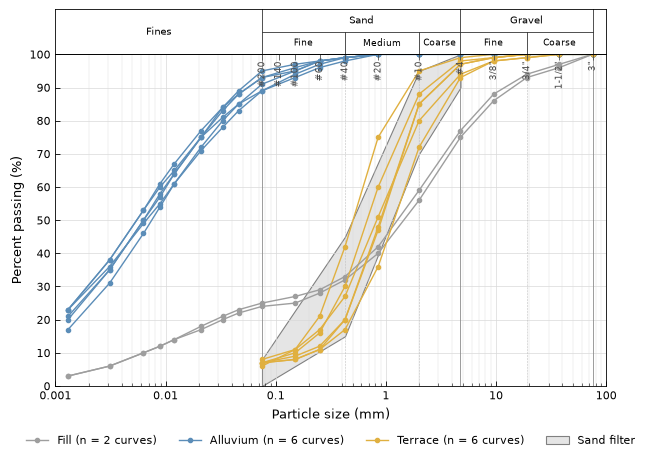
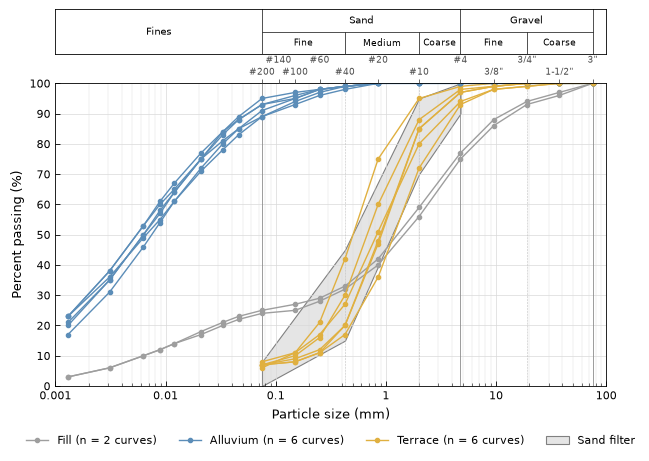
P05: put the sieve labels above the frame, horizontal
Rotated inside the top edge, they were crossed by every curve near 100 %
passing, which the clay curves made unreadable at #200 to #100. They now
sit in a strip between the frame and the band, horizontal, alternating
between two rows where neighbors are closer than 0.25 decade (P05 §5,
§8, §14 #4). The strip and the band share one axes divider, so they
stack.

diff --git a/src/hangtu/plot/_fraction_band.py b/src/hangtu/plot/_fraction_band.py
@@ -1,16 +1,19 @@
-"""The grain size plot's fraction band, dividers and sieve labels (P05 §8).
+"""The grain size plot's fraction band, dividers and sieve strip (P05 §8).
 
 The band and the dividers read the same fraction system as
 ``ht.analysis.gradation(fractions=)``, so they can't disagree with it.
 """
 
 import math
+from itertools import pairwise
 from numbers import Real
 from typing import Any
 
 from matplotlib.axes import Axes
-from matplotlib.markers import TICKDOWN
+from matplotlib.markers import TICKUP
+from matplotlib.transforms import blended_transform_factory
 from mpl_toolkits.axes_grid1 import make_axes_locatable
+from mpl_toolkits.axes_grid1.axes_divider import AxesDivider
 
 from hangtu import _config
 from hangtu.errors import HangtuError
@@ -25,17 +28,26 @@ BAND_WIDTH = 0.6
 FRACTION_DIVIDER = {"color": "0.55", "linewidth": 0.6}
 PART_DIVIDER = {"color": "0.75", "linewidth": 0.4, "linestyle": "--"}
 SIEVE_SIZE = 6.5
-SIEVE_TICK = 4.0  # points
+SIEVE_TICK = 3.0  # points, up from the frame
+SIEVE_PAD = 0.05  # inches between the frame and the first row of labels
+SIEVE_ROW = 0.12  # inches per row of labels
+CROWDED_DECADES = 0.25  # neighbors closer than this put the labels on two rows
 SIEVE_COLOR = "0.3"
 
 Fraction = dict[str, Any]
 
 
+def _divider(ax: Axes) -> AxesDivider:
+    """Return ``ax``'s divider, made once, so the strip and the band stack."""
+    divider = getattr(ax, "_grain_size_divider", None)
+    if divider is None:
+        divider = ax._grain_size_divider = make_axes_locatable(ax)
+    return divider
+
+
 def add_header(ax: Axes) -> Axes:
     """Carve the band's axes from the top of ``ax``, sharing its x axis."""
-    header = make_axes_locatable(ax).append_axes(
-        "top", size=HEADER_HEIGHT, pad=0, sharex=ax
-    )
+    header = _divider(ax).append_axes("top", size=HEADER_HEIGHT, pad=0, sharex=ax)
     header.set_ylim(0, 1)
     header.set_yticks([])
     header.grid(False, which="both")
@@ -193,18 +205,46 @@ def sieve_list(sieves: Any, display_units: str) -> list[tuple[float, str]]:
     return result
 
 
-def draw_sieves(
+def sieve_rows(sizes: list[float]) -> list[int]:
+    """Return each sieve's label row: 0, or alternating 0 and 1 when crowded.
+
+    Labels alternate between two rows, in size order, when any two neighbors
+    are closer than ``CROWDED_DECADES``, so horizontal labels don't overlap.
+    """
+    order = sorted(range(len(sizes)), key=sizes.__getitem__)
+    gaps = [math.log10(sizes[b] / sizes[a]) for a, b in pairwise(order)]
+    rows = [0] * len(sizes)
+    if any(gap < CROWDED_DECADES for gap in gaps):
+        for position, i in enumerate(order):
+            rows[i] = position % 2
+    return rows
+
+
+def add_sieve_strip(
     ax: Axes, sieves: list[tuple[float, str]], limits: tuple[float, float]
-) -> None:
-    """Write each sieve's label just inside the top of ``ax``, under a short tick."""
+) -> Axes | None:
+    """Label the sieves in a strip carved from the top of ``ax`` (P05 §8).
+
+    Each sieve gets a short tick up from the frame and a horizontal label
+    above it. Returns the strip, or None when no sieve is inside ``limits``.
+    Call before ``add_header``, so the strip sits between the frame and the
+    band.
+    """
     lo, hi = min(limits), max(limits)
-    for size, label in sieves:
-        if not lo < size < hi:
-            continue
+    inside = [(size, label) for size, label in sieves if lo < size < hi]
+    if not inside:
+        return None
+    rows = sieve_rows([size for size, _ in inside])
+    height = SIEVE_PAD + (max(rows) + 1) * SIEVE_ROW
+    strip = _divider(ax).append_axes("top", size=height, pad=0, sharex=ax)
+    strip.set_axis_off()
+    strip.set_ylim(0, 1)
+    on_strip = blended_transform_factory(strip.transData, strip.transAxes)
+    for (size, label), row in zip(inside, rows, strict=True):
         ax.plot(
             [size],
             [1.0],
-            marker=TICKDOWN,
+            marker=TICKUP,
             markersize=SIEVE_TICK,
             markeredgewidth=0.6,
             color=SIEVE_COLOR,
@@ -213,17 +253,15 @@ def draw_sieves(
             gid="sieve_tick",
             zorder=_layers.ANNOTATIONS,
         )
-        ax.annotate(
+        strip.text(
+            size,
+            (SIEVE_PAD + (row + 0.5) * SIEVE_ROW) / height,
             label,
-            xy=(size, 1.0),
-            xycoords=("data", "axes fraction"),
-            xytext=(0, -SIEVE_TICK - 1),
-            textcoords="offset points",
-            rotation=90,
+            transform=on_strip,
             ha="center",
-            va="top",
+            va="center",
             fontsize=SIEVE_SIZE,
             color=SIEVE_COLOR,
             gid="sieve_label",
-            zorder=_layers.ANNOTATIONS,
         )
+    return strip

diff --git a/tests/plot/test_grain_size_band.py b/tests/plot/test_grain_size_band.py
@@ -7,6 +7,7 @@ import pytest
 
 import hangtu as ht
 from hangtu.errors import HangtuError
+from hangtu.plot._fraction_band import sieve_rows
 
 EMPTY = pd.DataFrame()
 
@@ -20,7 +21,10 @@ def texts(ax, gid):
 
 
 def sieve_labels(ax):
-    return {t.get_text(): t.xy[0] for t in ax.texts if t.get_gid() == "sieve_label"}
+    if ax.grain_size_sieves is None:
+        return {}
+    texts = ax.grain_size_sieves.texts
+    return {t.get_text(): t.get_position()[0] for t in texts}
 
 
 # --- Band (§12) --------------------------------------------------------------
@@ -100,7 +104,7 @@ def test_unknown_system_is_the_analysis_error():
 def test_fractions_none_hides_band_and_dividers():
     fig, ax = ht.plot.grain_size(EMPTY, fractions=None)
     assert ax.grain_size_header is None
-    assert len(fig.axes) == 1
+    assert fig.axes == [ax, ax.grain_size_sieves]  # the sieves stay
     assert dividers(ax, "fraction_divider") == []
     assert dividers(ax, "part_divider") == []
 
@@ -121,7 +125,10 @@ def test_header_is_045_in_and_shares_x():
     box = header.get_window_extent()
     assert box.height / fig.dpi == pytest.approx(0.45, abs=0.01)
     assert header.get_xlim() == ax.get_xlim()
-    assert box.y0 == pytest.approx(ax.get_window_extent().y1, abs=1)
+    # Above the sieve strip, which sits on the frame.
+    strip = ax.grain_size_sieves.get_window_extent()
+    assert strip.y0 == pytest.approx(ax.get_window_extent().y1, abs=1)
+    assert box.y0 == pytest.approx(strip.y1, abs=1)
 
 
 def test_header_composes_on_a_sheet():
@@ -235,3 +242,35 @@ def test_no_global_state(assert_no_global_state):
     sheet = ht.Sheet("letter")
     assert_no_global_state(ht.plot.grain_size, EMPTY, ax=sheet[0])
     plt.close(sheet.figure)
+
+
+def test_sieve_labels_are_horizontal_above_the_frame():
+    fig, ax = ht.plot.grain_size(EMPTY, display_units="US")
+    fig.canvas.draw()
+    frame_top = ax.get_window_extent().y1
+    texts = ax.grain_size_sieves.texts
+    assert texts
+    for text in texts:
+        assert text.get_rotation() == 0
+        assert text.get_window_extent().y0 >= frame_top
+    assert ax.grain_size_sieves.get_xlim() == ax.get_xlim()
+
+
+def test_crowded_sieves_alternate_between_two_rows():
+    _, us = ht.plot.grain_size(EMPTY, display_units="US")
+    rows = {t.get_text(): t.get_position()[1] for t in us.grain_size_sieves.texts}
+    assert rows["#200"] == rows["#100"] != rows["#140"]
+    _, si = ht.plot.grain_size(EMPTY, display_units="SI")
+    assert len({t.get_position()[1] for t in si.grain_size_sieves.texts}) == 1
+
+
+def test_sieve_rows():
+    assert sieve_rows([2.0, 0.2, 20.0]) == [0, 0, 0]
+    assert sieve_rows([0.15, 0.075, 0.106]) == [0, 0, 1]
+
+
+def test_no_sieves_means_no_strip():
+    _, ax = ht.plot.grain_size(EMPTY, sieves=None)
+    assert ax.grain_size_sieves is None
+    _, ax = ht.plot.grain_size(EMPTY, sieves=[(500, "big")])
+    assert ax.grain_size_sieves is None

diff --git a/src/hangtu/plot/_grain_size.py b/src/hangtu/plot/_grain_size.py
@@ -380,8 +380,9 @@ def grain_size(
     figsize : tuple, optional
         Figure size in inches. Defaults to ``ht.settings.figure_sizes["default"]``.
     ax : matplotlib.axes.Axes, optional
-        Draw into this axes, e.g. a ``Sheet`` panel. The band's axes is carved
-        from its top and kept as ``ax.grain_size_header``.
+        Draw into this axes, e.g. a ``Sheet`` panel. The band's axes and the
+        sieve strip are carved from its top and kept as
+        ``ax.grain_size_header`` and ``ax.grain_size_sieves``.
     **style_overrides
         matplotlib rcParams for this plot, e.g. ``font_size=10``.
 
@@ -446,11 +447,12 @@ def grain_size(
             fig = ax.figure
         style.style_axes(ax)
         _set_axes(ax, limits, reverse)
+        # The strip first, so it sits between the frame and the band.
+        ax.grain_size_sieves = _fraction_band.add_sieve_strip(ax, sieve_list, limits)
         ax.grain_size_header = None
         if fractions is not None:
             ax.grain_size_header = _fraction_band.add_header(ax)
             _fraction_band.draw_band(ax.grain_size_header, ax, system_fractions, limits)
-        _fraction_band.draw_sieves(ax, sieve_list, limits)
         envelope_handles = _envelopes.draw_envelopes(ax, bands, band_colors)
         handles = _draw_curves(
             ax,

diff --git a/tests/plot/test_grain_size_acceptance.py b/tests/plot/test_grain_size_acceptance.py
@@ -71,7 +71,8 @@ def _dividers(ax):
 
 
 def _sieves(ax):
-    return {t.get_text(): t.xy[0] for t in ax.texts if t.get_gid() == "sieve_label"}
+    texts = ax.grain_size_sieves.texts
+    return {t.get_text(): t.get_position()[0] for t in texts}
 
 
 @pytest.fixture(scope="module")

diff --git a/docs/plots/P05-grain-size.md b/docs/plots/P05-grain-size.md
@@ -19,8 +19,11 @@ Draws particle-size distribution curves, one per specimen, on a log size axis, w
      ┌──────┬───────────────────────┬────────────────┬────────┐
      │      │         Sand          │     Gravel     │        │   ← fractions
      │Fines │ fine │ medium │ coarse│  fine  │ coarse│Cobbles │   ← parts
-     ├──────┴──────┴────────┴───────┴────────┴───────┴────────┤
- 100 ┤   #200   #100  #40  #20 #10 #4   ⅜"  ¾"  1½" 3"        │   ← sieve labels
+     └──────┴──────┴────────┴───────┴────────┴───────┴────────┘
+            #140  #60      #10    3/8"   1-1/2"                    ← sieve labels,
+          #200  #100  #40  #20  #4   3/4"   3"                       two rows when crowded
+     ┌─────┴────┴─────┴─────┴────┴───┴─────┴────┴──────────────┐
+ 100 ┤                                                          │
      │                          __________________/           │
      │                   ______/ ░░░░ envelope ░░░░           │
   %  │            ______/ ┊D60                                │
@@ -59,10 +62,10 @@ Draws particle-size distribution curves, one per specimen, on a log size axis, w
 - Nothing else is computed.
 
 ## 5. Figure layout
-- **Panels:** the main axes, plus a thin header axes above it sharing x (the fraction band, about 0.45 in high). It's one figure element: with `ax=`, the header is carved from the top of the axes given, so the plot still composes on a `Sheet`.
+- **Panels:** the main axes, plus two thin axes above it sharing x: the sieve strip on the frame (0.05 in, plus 0.12 in per row of labels) and the fraction band above that (0.45 in). It's one figure element: with `ax=`, both are carved from the top of the axes given, so the plot still composes on a `Sheet`.
 - **Legend and footnote** go below the x label, centered, the legend in up to four columns and the footnote under it, rather than on the right as on other plots: a column beside the axes squeezes the log axis, which needs its width to read sizes.
 - **Default size:** `default` (6.5 × 4.5 in), landscape. `figsize=` covers a full Letter landscape sheet.
-- `fig, ax` returns the main axes; the header is `ax.grain_size_header` (None with `fractions=None`). It is made with `make_axes_locatable(ax).append_axes("top", size=0.45, pad=0, sharex=ax)`, which works under constrained layout.
+- `fig, ax` returns the main axes; the header is `ax.grain_size_header` (None with `fractions=None`) and the strip `ax.grain_size_sieves` (None with no sieve in the x range). Both come from one `make_axes_locatable(ax)` divider with `append_axes("top", ..., pad=0, sharex=ax)`, the strip first, which works under constrained layout.
 
 ## 6. Axes
 | | X axis | Y axis |
@@ -74,7 +77,7 @@ Draws particle-size distribution curves, one per specimen, on a log size axis, w
 | Limits | whole decades covering the data, and at least 0.001–100 mm; a point on a whole decade moves that limit out one decade (P00 §8); `xlim=` overrides, exactly | 0–100, fixed |
 | Ticks | decades labeled in plain numbers (0.001, 0.01, …, 100) | every 10 |
 | Gridlines | major and minor (2–9) | every 10 |
-| Secondary | sieve labels along the top inside edge (`sieves=`) | — |
+| Secondary | sieve labels above the frame, under the band (`sieves=`) | — |
 
 **Range constraints:**
 - [x] Fixed y limits (0–100).
@@ -96,7 +99,7 @@ More than 20 curves with `color_by="specimen_id"`: the README legend rules apply
 | Overlay | Argument | Default | Source | Style | Notes |
 |---|---|---|---|---|---|
 | Fraction band | `fractions=` | `"astm_uscs"` | `config/fraction_systems.yaml` or the user's system | two rows: fraction names in the upper row, their parts (fine, medium, coarse) in the lower; a fraction without parts spans both, and a system without parts (`aashto`) has one row. Names are the fraction names with underscores as spaces, capitalized ("Silt clay"). Dividers at each boundary down through the main axes as light vertical lines (fraction boundaries solid, part boundaries dashed) | `None` hides the band and the dividers. Only fractions inside the x range are named, each centered on its visible part; a name narrower than 0.25 decade in view is left out |
-| Sieve labels | `sieves=` | `"auto"`: US list in US display, ISO list in SI | `config/sieves.yaml` (new), cited | 6.5 pt, rotated 90°, along the top inside edge, with a short tick | `"us"`, `"iso"`, `None`, or a list of `(size_mm, label)` |
+| Sieve labels | `sieves=` | `"auto"`: US list in US display, ISO list in SI | `config/sieves.yaml` (new), cited | 6.5 pt, horizontal, in a strip above the frame and under the band, each over a short tick up from the frame. When any two neighbors are closer than 0.25 decade (the US list near #200), the labels alternate between two rows in size order; otherwise one row. Above the frame, so no curve crosses them | `"us"`, `"iso"`, `None`, or a list of `(size_mm, label)`; only sizes inside the x range are labeled |
 | D-values | `d_values=` | off | `gradation()` | §7 | |
 | Envelopes | `envelopes=` | off | user table (below) | §7 | |
 | Note | `note=` | off | user | added to the footnote | |
@@ -180,7 +183,7 @@ None open. Decided in review:
 1. **Axis direction:** coarse on the right (size increasing to the right), the same default in US and SI display, so one figure serves both. `reverse=True` gives the coarse-on-the-left layout of some US forms (§6).
 2. **Fraction dividers** run down through the main axes as light lines, so a curve can be read against the boundaries (§8).
 3. **D-value labels** only for a single curve; ticks without labels for several (§7).
-4. **Sieve lists** in a new `config/sieves.yaml`, with the ISO list at the fraction boundaries (§8).
+4. **Sieve lists** in a new `config/sieves.yaml`, with the ISO list at the fraction boundaries (§8). The labels sit above the frame and are horizontal (changed in the build's review from rotated labels inside the top edge, which curves near 100 % passing crossed).
 5. **Envelope and fraction-system colors** are gray unless given, apart from geology unit colors (§7).
 
 ## 15. Future enhancements

diff --git a/docs/work/m8-index-plots.md b/docs/work/m8-index-plots.md
@@ -326,5 +326,5 @@ Two commits, no change in behavior:
   - `README.md` gets a `grain_size()` line in the AGS example (it runs with no warning), and its "Plots" line now names the plasticity chart and the grain size curves.
 - **Example project:** after review, the example site gained hydrometer tests on the fill and the upper alluvium tubes (`tests/data/_make_examples.py`, from their own random sequence, so no other value changed): 14 curves, 8 of them continuing into the fines. `grain_size(p.grain_size())` runs with no warning or hint; with `d_values=True` the footnote counts D10 not reached by the six alluvium curves, whose finest points pass more than 10 %. On the datasets' good files (datasets.md §13 #14) it runs with no warning or hint.
 - SPEC §11 has the `grain_size()` call. `TODO.md` #5 lists the sieve lists to verify; it stays open.
-- **Visual check** (`docs/plots/img/P05-us.png` and `P05-si.png`, the default figure saved at 100 dpi with `bbox_inches="tight"`): the 14 example curves in the map's colors and order (D-values off, their default), a sand-filter envelope under the gridlines, the USCS band with its dividers, and the footnote count. The two figures differ only in the sieve labels. A single-curve figure was checked too: the dashed leaders and labels sit right. One thing to know:
-  - The sieve labels sit inside the top edge (§8), so curves near 100 % passing cross them: the alluvium curves run through `#200` to `#100`, and the sands through `3/8"` to `1-1/2"`. Putting the labels above the frame, under the band, would clear them; that changes §8 and is left for review.
+- **Visual check** (`docs/plots/img/P05-us.png` and `P05-si.png`, the default figure saved at 100 dpi with `bbox_inches="tight"`): the 14 example curves in the map's colors and order (D-values off, their default), a sand-filter envelope under the gridlines, the USCS band with its dividers, and the footnote count. The two figures differ only in the sieve labels. A single-curve figure was checked too: the dashed leaders and labels sit right.
+  - In review the sieve labels moved from rotated, inside the top edge, where curves near 100 % passing crossed them, to horizontal in a strip above the frame, on two alternating rows where crowded (the US list near #200) (P05 §5, §8). Putting the labels above the frame, under the band, would clear them; that changes §8 and is left for review.
